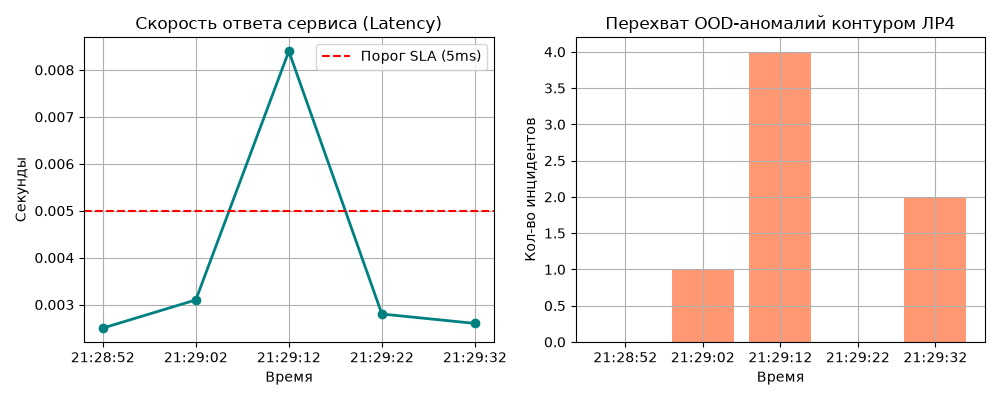
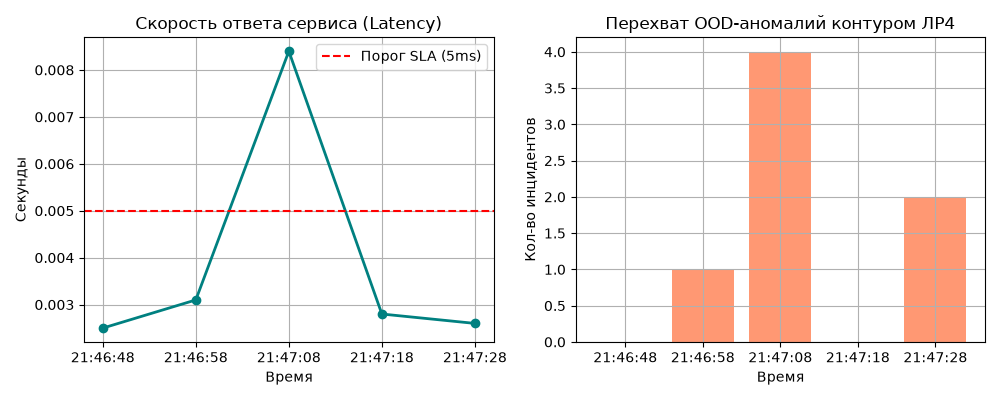
[LAB_6] readme
- Что сделано:
- Run ID (Полный датасет):
- Run ID (Чанки):
- Чек-лист проверен: [ ]

diff --git a/reports/LAB6/lab6_report.md b/reports/LAB6/lab6_report.md
@@ -3,7 +3,7 @@
 **Работа:** №6. FastAPI-сервис модели с бесшовным переключением  
 **Дата:** 04.10.2026  
 **Автор:** [Сергей Старков]  
-**Хеш коммита кода:** [git rev-parse --short HEAD]  
+**Хеш коммита кода:** [2f35079]  
 
 ---
 
